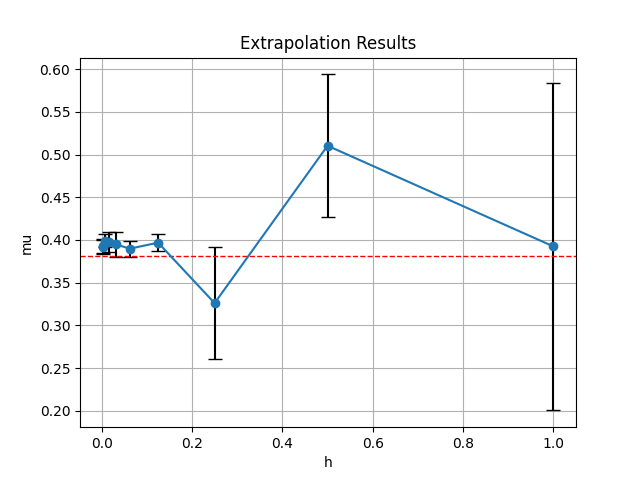
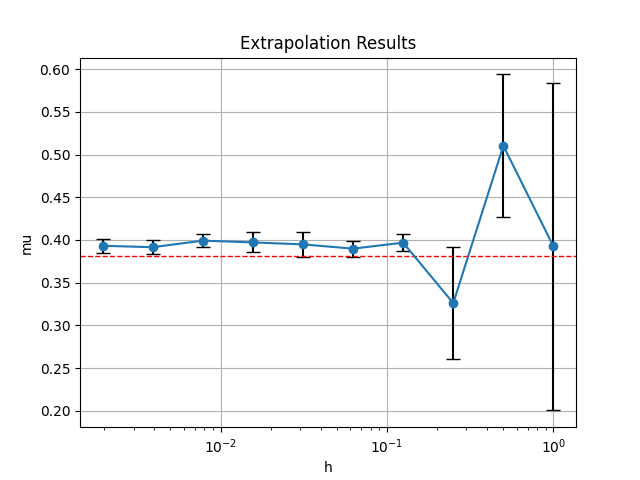
Changed extrapolation graph to log scale

diff --git a/src/models.py b/src/models.py
@@ -528,6 +528,8 @@ class Model:
         plt.errorbar(self.df_all_extrapolation_results[h_col], self.df_all_extrapolation_results["mu"], yerr=errors, fmt='o-', capsize=5, ecolor='black', markersize=6)
         plt.xlabel("h")
         plt.ylabel("mu")
+        plt.xscale('log')
+        #plt.yscale('log')
         plt.title("Extrapolation Results")
         plt.grid(True)
 
